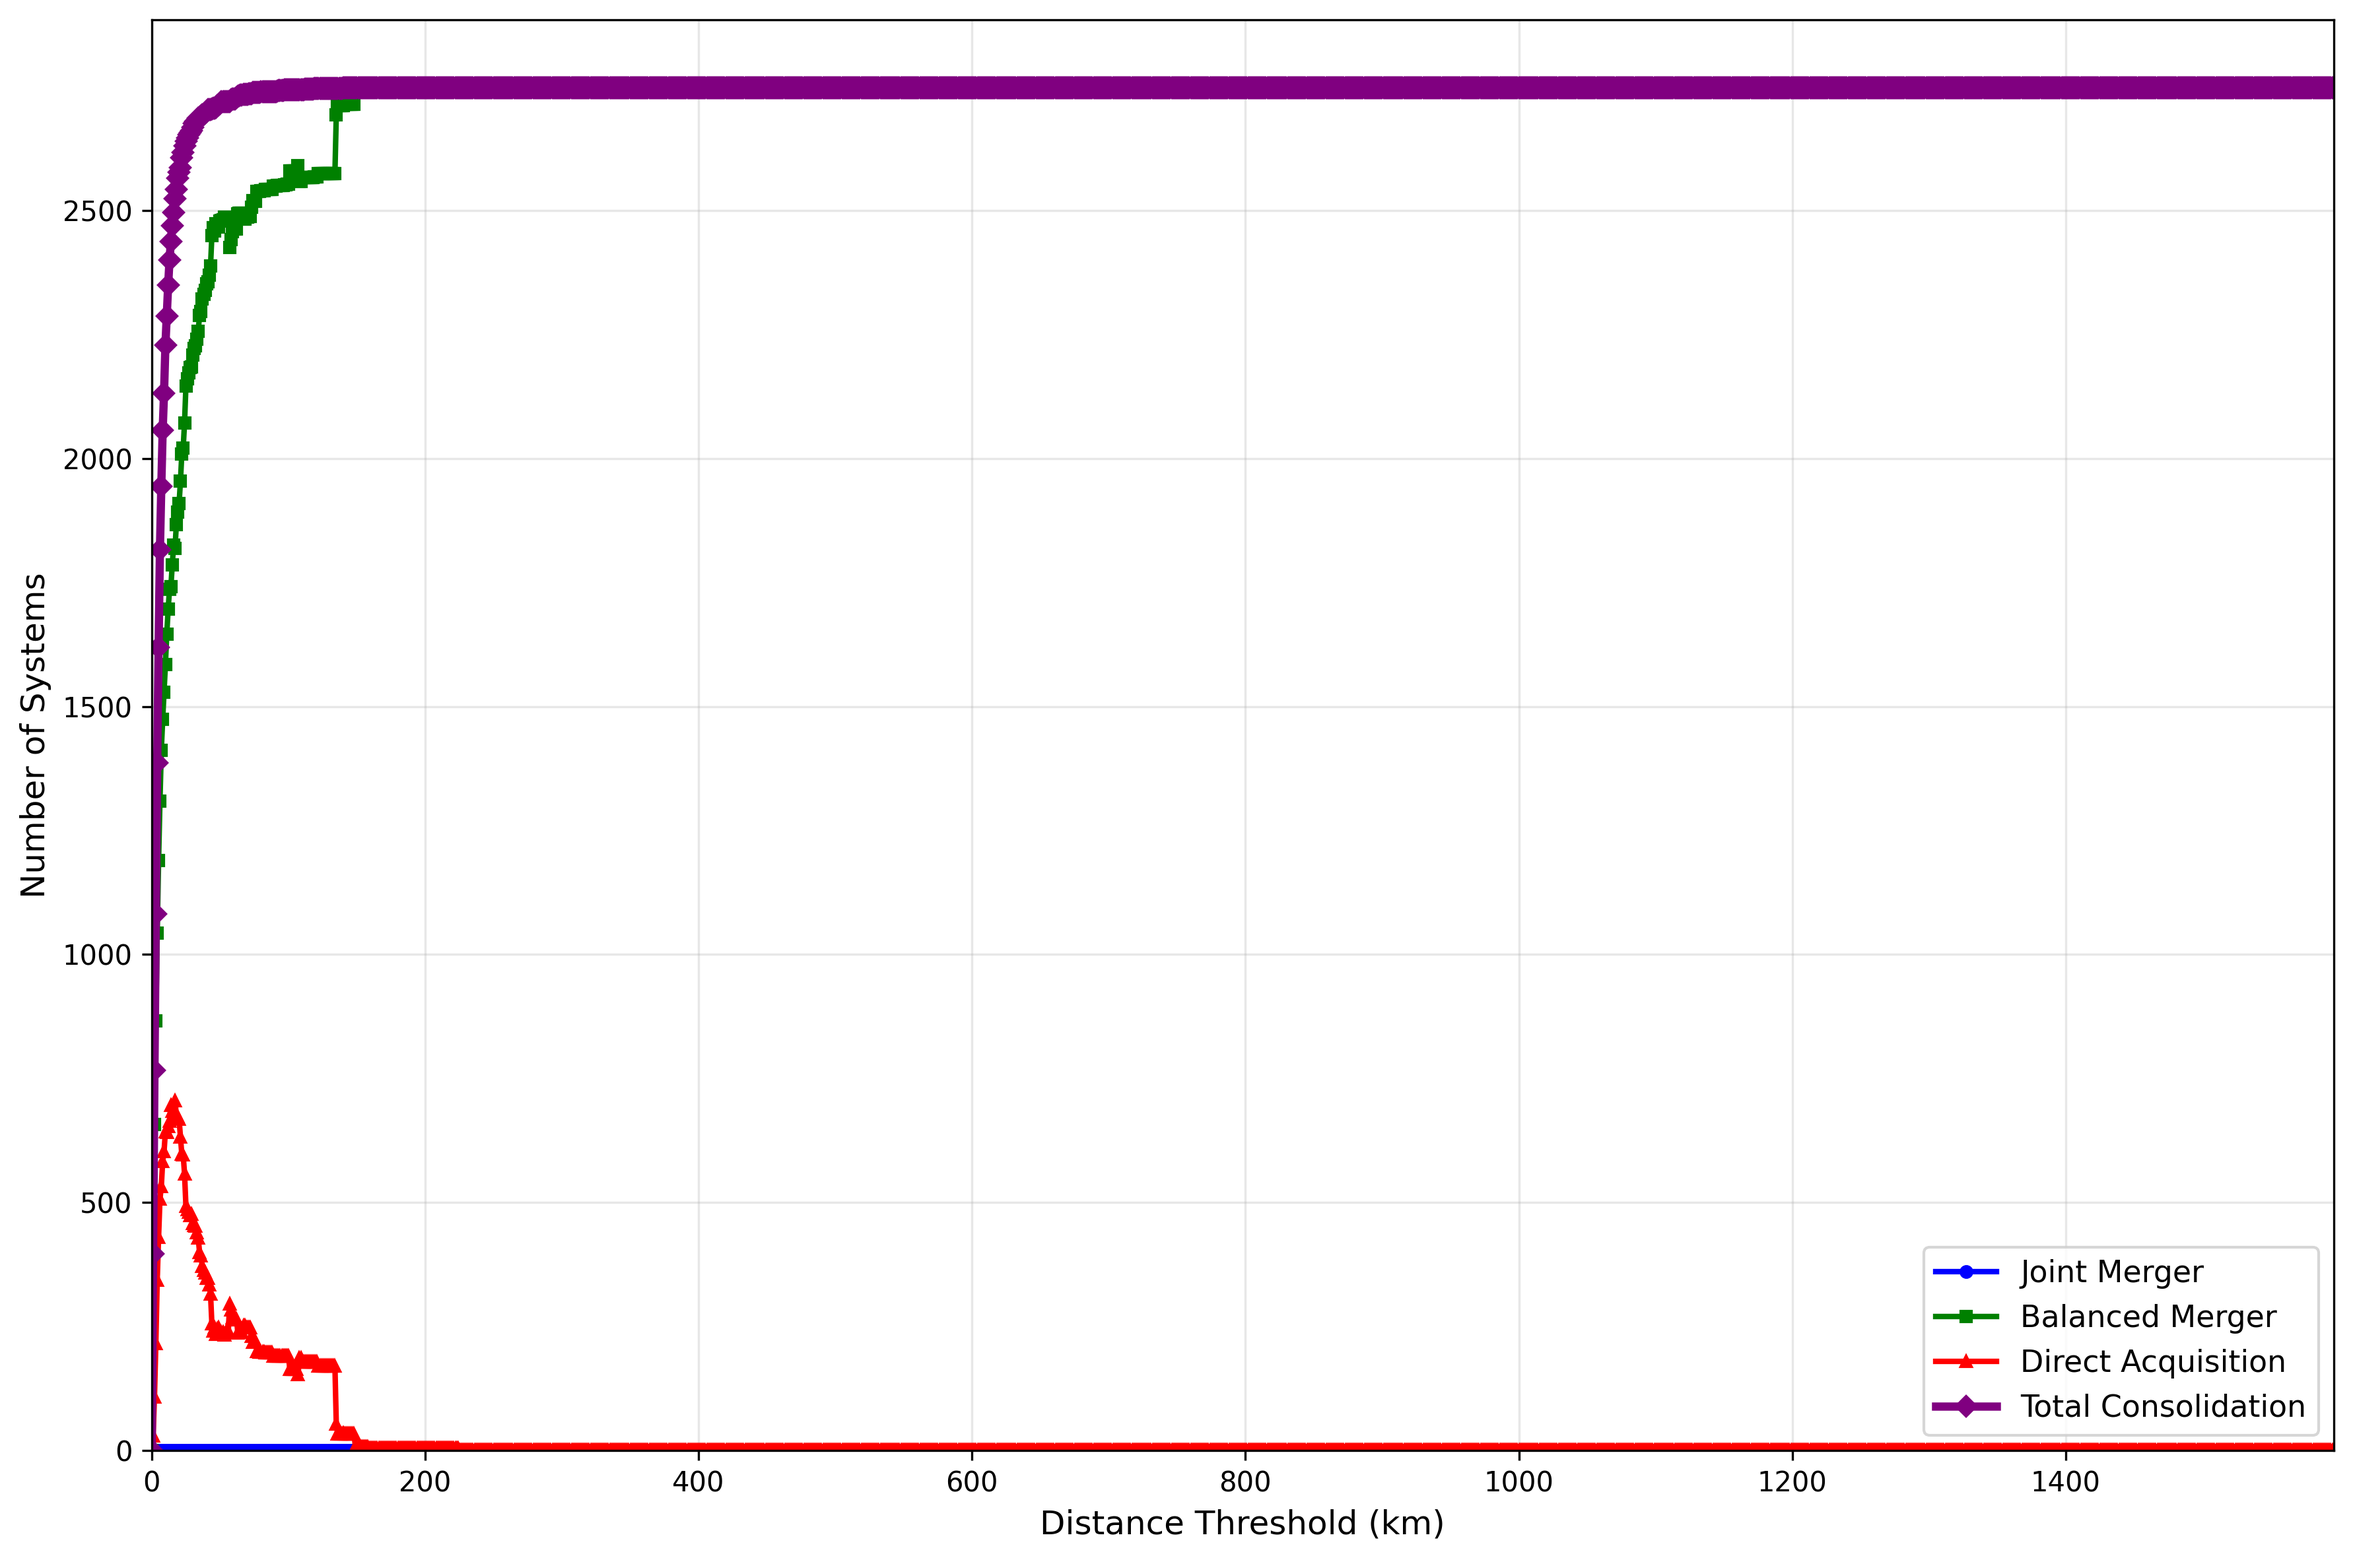
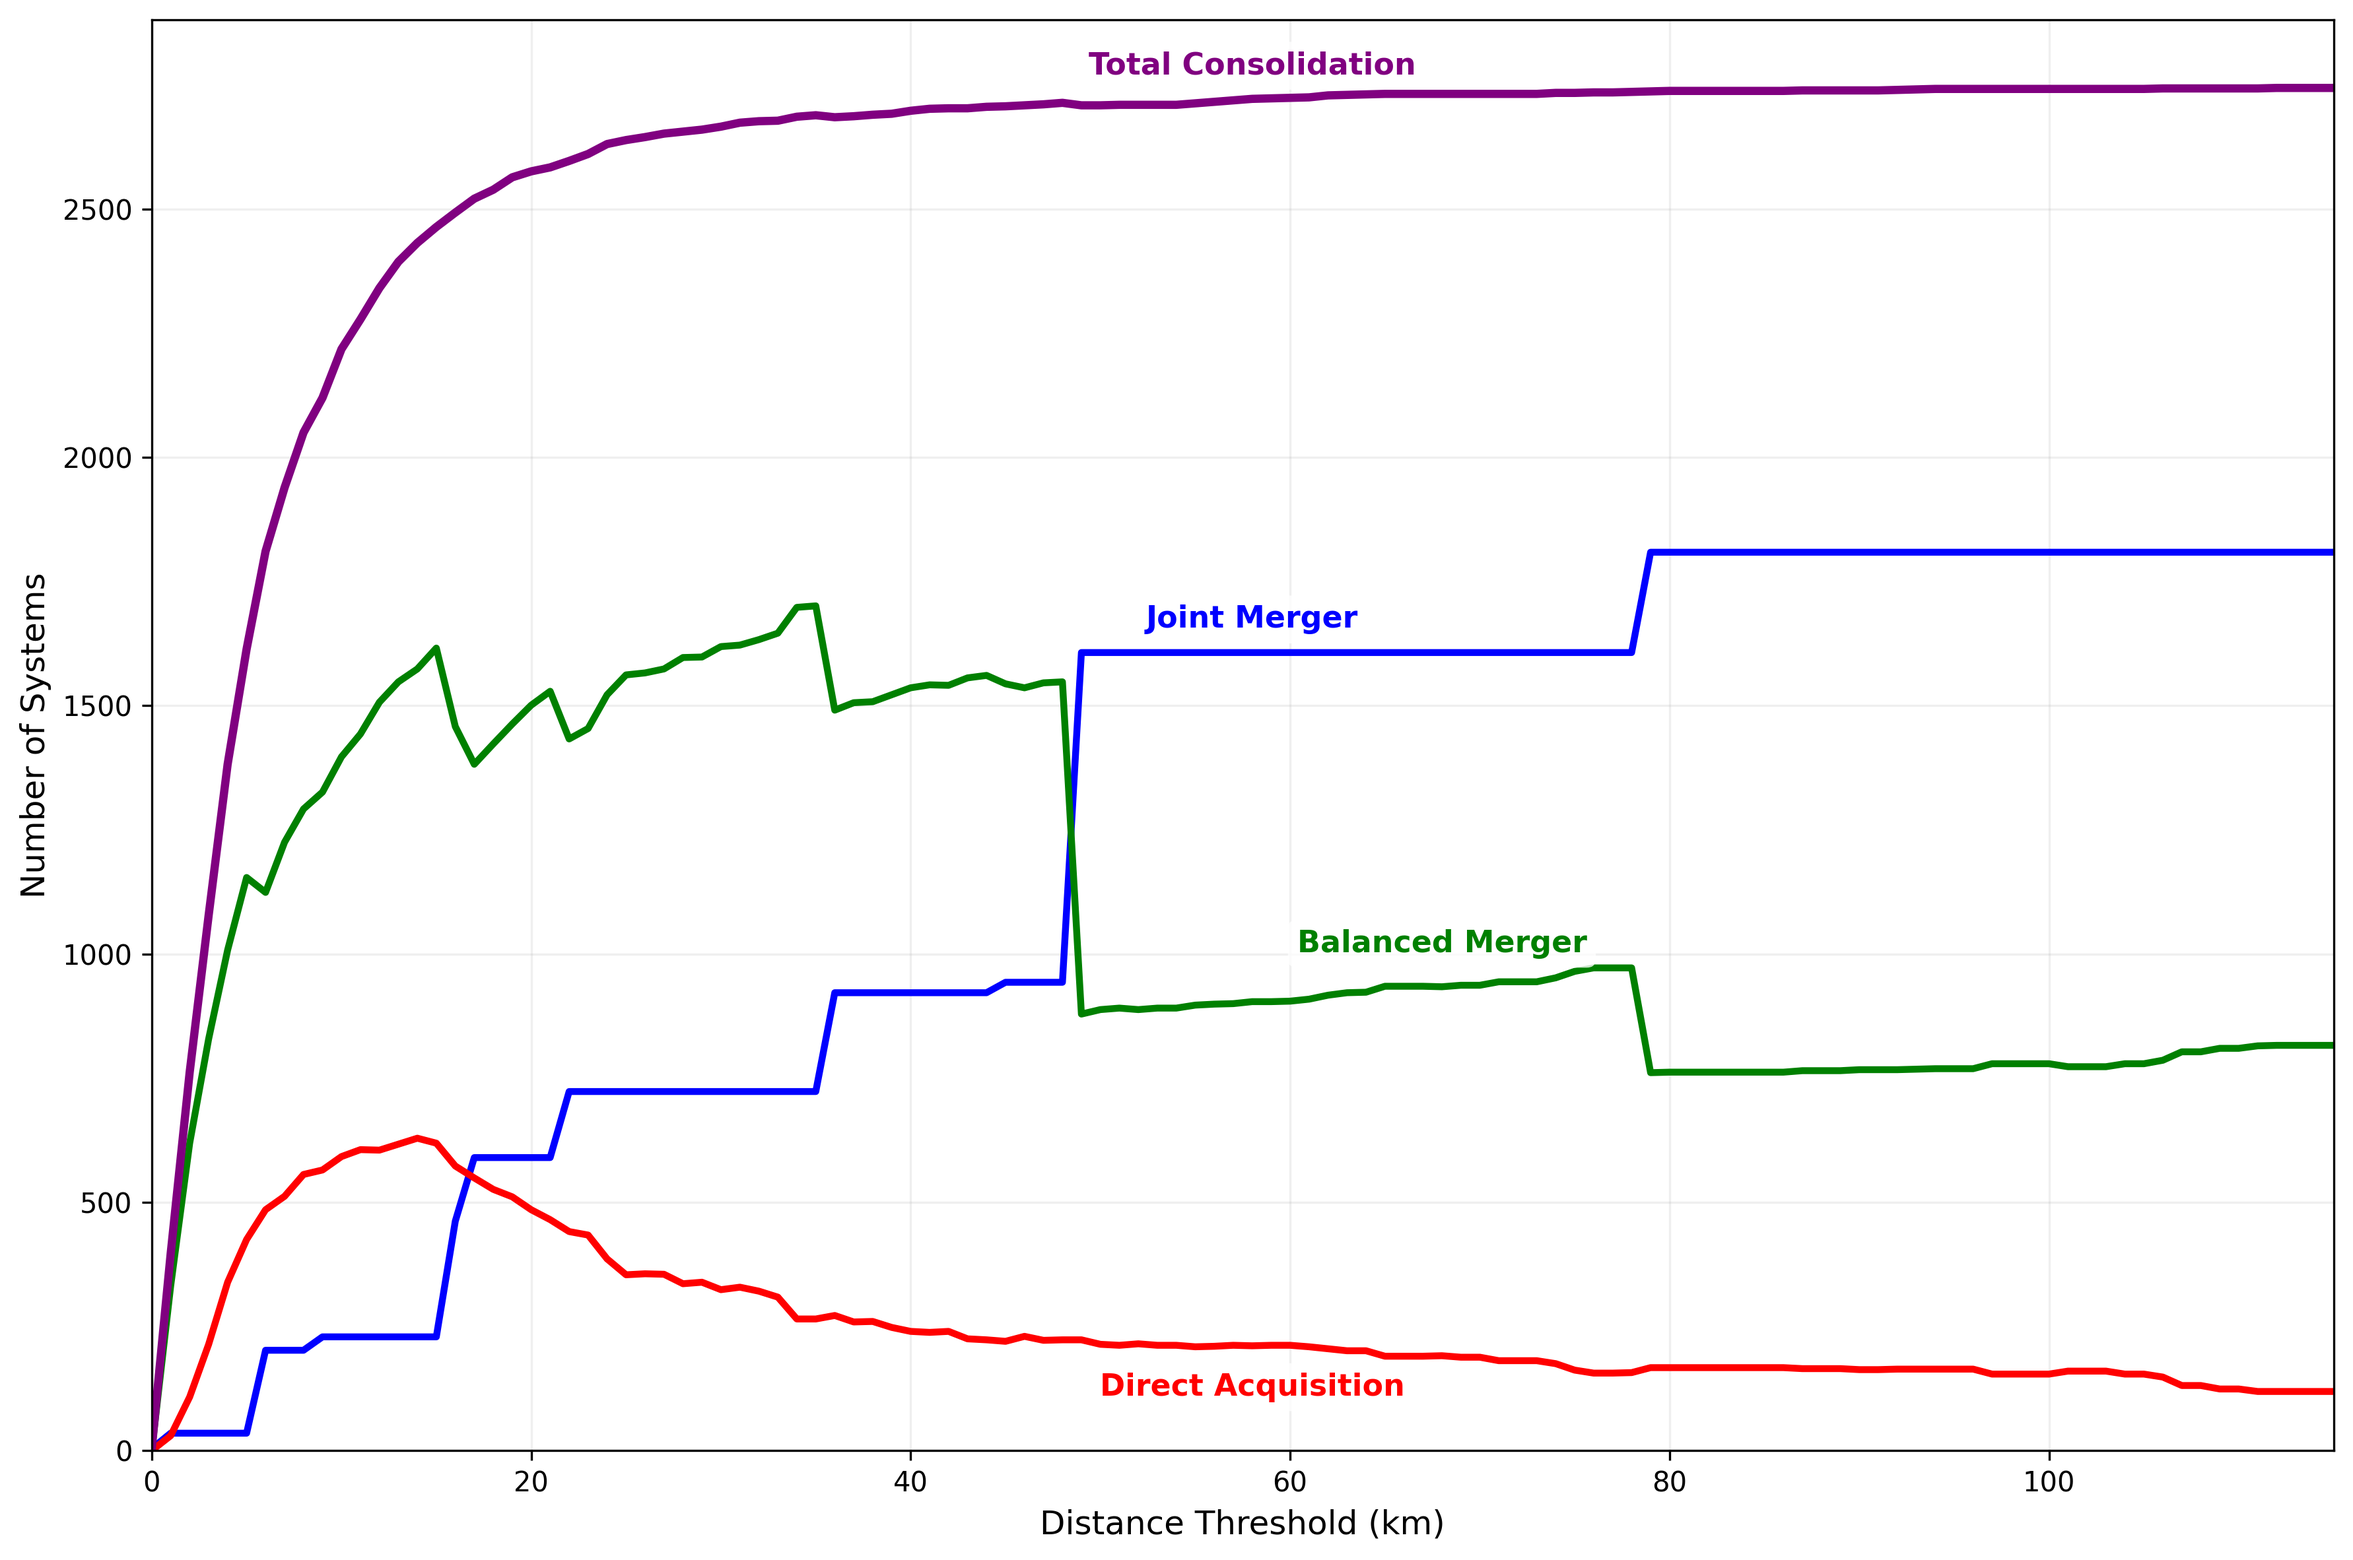
Create the consolidation distance analysis plot

diff --git a/consolidation_distance_analysis.py b/consolidation_distance_analysis.py
@@ -88,12 +88,134 @@ def water_systems_nearest_neighbor_analysis():
     ax1.tick_params(axis='y', labelcolor=color_km)
     ax1.grid(True, alpha=0.3)
     
+    # Set axis limits to start from 0
+    ax1.set_xlim(0, len(sorted_distances_km)+50)
+    ax1.set_ylim(0, sorted_distances_km.max() * 1.05)
+    
     # Create second y-axis for miles
     ax2 = ax1.twinx()
     color_miles = 'tab:red'
     ax2.set_ylabel('Distance (miles)', color=color_miles, fontsize=12)
     line2 = ax2.plot(system_numbers, sorted_distances_miles, color='black', linewidth=1.5)
     ax2.tick_params(axis='y', labelcolor=color_miles)
+    
+    # Set right y-axis to also start from 0
+    ax2.set_ylim(0, sorted_distances_miles.max() * 1.05)
+    
+    plt.tight_layout()
+    plt.savefig('Output Figure/Water_Systems_Nearest_Neighbor_Analysis.png', dpi=300, bbox_inches='tight')
+    plt.show()
+    
+    print(f"\nPlot saved to: Output Figure/Water_Systems_Nearest_Neighbor_Analysis.png")
+    
+    # Create consolidation sensitivity plot
+    create_consolidation_sensitivity_plot()
+    
+    return nearest_distances_km, nearest_distances_miles
+
+# Script to visualize water system distance and consolidation analysis
+# Creates two plots: nearest neighbor distances and consolidation sensitivity across distance thresholds
+
+import pandas as pd
+import numpy as np
+import matplotlib.pyplot as plt
+
+def water_systems_nearest_neighbor_analysis():
+    """
+    Calculate and visualize nearest neighbor distances for California water systems
+    """
+    
+    # Load data
+    print("Loading data...")
+    try:
+        # Load CWS data
+        cws_ca = pd.read_csv('Output Data/CWS_CA.csv')
+        print(f"Loaded {len(cws_ca)} water systems")
+        
+        # Load distance matrix
+        data = np.load('Output Data/PWSID_Distance_Matrix_km.npz')
+        distance_matrix_km = data['distance_matrix']
+        pwsids = data['pwsids']
+        print(f"Loaded distance matrix: {distance_matrix_km.shape[0]} × {distance_matrix_km.shape[1]} systems")
+        
+    except FileNotFoundError as e:
+        print(f"Error loading data: {e}")
+        return
+    
+    # Calculate nearest neighbor distances
+    print("Calculating nearest neighbor distances...")
+    
+    # Create a copy of distance matrix and set diagonal to infinity to exclude self-distances
+    dist_matrix = distance_matrix_km.copy()
+    np.fill_diagonal(dist_matrix, np.inf)
+    
+    # Find minimum distance for each system (nearest neighbor)
+    nearest_distances_km = np.min(dist_matrix, axis=1)
+    nearest_distances_miles = nearest_distances_km * 0.621371  # Convert km to miles
+    
+    # Sort distances for plotting
+    sorted_distances_km = np.sort(nearest_distances_km)
+    sorted_distances_miles = np.sort(nearest_distances_miles)
+    
+    # Calculate statistics
+    stats_km = {
+        'min': nearest_distances_km.min(),
+        'max': nearest_distances_km.max(),
+        'median': np.median(nearest_distances_km),
+        'mean': nearest_distances_km.mean()
+    }
+    
+    stats_miles = {
+        'min': nearest_distances_miles.min(),
+        'max': nearest_distances_miles.max(),
+        'median': np.median(nearest_distances_miles),
+        'mean': nearest_distances_miles.mean()
+    }
+    
+    # Print statistics
+    print("\n" + "="*60)
+    print("NEAREST NEIGHBOR DISTANCE STATISTICS")
+    print("="*60)
+    print(f"Total systems analyzed: {len(nearest_distances_km)}")
+    print(f"\nDistance Statistics (km):")
+    print(f"  Minimum:  {stats_km['min']:.2f} km")
+    print(f"  Maximum:  {stats_km['max']:.2f} km")
+    print(f"  Median:   {stats_km['median']:.2f} km")
+    print(f"  Mean:     {stats_km['mean']:.2f} km")
+    
+    print(f"\nDistance Statistics (miles):")
+    print(f"  Minimum:  {stats_miles['min']:.2f} miles")
+    print(f"  Maximum:  {stats_miles['max']:.2f} miles")
+    print(f"  Median:   {stats_miles['median']:.2f} miles")
+    print(f"  Mean:     {stats_miles['mean']:.2f} miles")
+    
+    # Create the plot
+    fig, ax1 = plt.subplots(figsize=(12, 8))
+    
+    # Create system numbers for x-axis
+    system_numbers = np.arange(1, len(sorted_distances_km) + 1)
+    
+    # Plot km distances on left y-axis
+    color_km = 'tab:blue'
+    ax1.set_xlabel('System Number (Sorted by Distance)', fontsize=12)
+    ax1.set_ylabel('Distance (km)', color=color_km, fontsize=12)
+    line1 = ax1.plot(system_numbers, sorted_distances_km, color='black', linewidth=1.5)
+    ax1.tick_params(axis='y', labelcolor=color_km)
+    ax1.grid(True, alpha=0.3)
+    
+    # Set axis limits to start from 0
+    ax1.set_xlim(0, len(sorted_distances_km))
+    ax1.set_ylim(0, sorted_distances_km.max() * 1.05)
+    
+    # Create second y-axis for miles
+    ax2 = ax1.twinx()
+    color_miles = 'tab:red'
+    ax2.set_ylabel('Distance (miles)', color=color_miles, fontsize=12)
+    line2 = ax2.plot(system_numbers, sorted_distances_miles, color='black', linewidth=1.5)
+    ax2.tick_params(axis='y', labelcolor=color_miles)
+    
+    # Set right y-axis to also start from 0
+    ax2.set_ylim(0, sorted_distances_miles.max() * 1.05)
     
     plt.tight_layout()
     plt.savefig('Output Figure/Water_Systems_Nearest_Neighbor_Analysis.png', dpi=300, bbox_inches='tight')
@@ -115,21 +237,55 @@ def create_consolidation_sensitivity_plot():
         # Create the plot
         fig, ax = plt.subplots(figsize=(12, 8))
         
+        # Use fresh, soft colors
+        colors = {
+            'joint': 'blue',
+            'balanced': 'green', 
+            'direct': 'red',
+            'total': 'purple'
+        }
+        
         # Plot each consolidation type
-        ax.plot(sensitivity_df['Distance_km'], sensitivity_df['Joint_Merger'], 'o-', 
-                label='Joint Merger', color='blue', linewidth=2, markersize=4)
-        ax.plot(sensitivity_df['Distance_km'], sensitivity_df['Balanced_Merger'], 's-', 
-                label='Balanced Merger', color='green', linewidth=2, markersize=4)
-        ax.plot(sensitivity_df['Distance_km'], sensitivity_df['Direct_Acquisition'], '^-', 
-                label='Direct Acquisition', color='red', linewidth=2, markersize=4)
-        ax.plot(sensitivity_df['Distance_km'], sensitivity_df['Total_Consolidation'], 'D-', 
-                label='Total Consolidation', color='purple', linewidth=3, markersize=5)
+        ax.plot(sensitivity_df['Distance_km'], sensitivity_df['Joint_Merger'], '-', 
+                color=colors['joint'], linewidth=2.5)
+        ax.plot(sensitivity_df['Distance_km'], sensitivity_df['Balanced_Merger'], '-', 
+                color=colors['balanced'], linewidth=2.5)
+        ax.plot(sensitivity_df['Distance_km'], sensitivity_df['Direct_Acquisition'], '-', 
+                color=colors['direct'], linewidth=2.5)
+        ax.plot(sensitivity_df['Distance_km'], sensitivity_df['Total_Consolidation'], '-', 
+                color=colors['total'], linewidth=3)
+        
+        # Add text labels directly on the lines
+        mid_x = sensitivity_df['Distance_km'].iloc[len(sensitivity_df)//2]
+        
+        # Find y-values at the middle x position for labeling
+        mid_idx = len(sensitivity_df) // 2
+        joint_y = sensitivity_df['Joint_Merger'].iloc[mid_idx]
+        balanced_y = sensitivity_df['Balanced_Merger'].iloc[mid_idx]
+        direct_y = sensitivity_df['Direct_Acquisition'].iloc[mid_idx]
+        total_y = sensitivity_df['Total_Consolidation'].iloc[mid_idx]
+        
+        # Add text labels
+        ax.text(mid_x, joint_y + 50, 'Joint Merger', fontsize=11, ha='center', 
+                color=colors['joint'], fontweight='bold', 
+                bbox=dict(boxstyle='round,pad=0.3', facecolor='white', alpha=0.8, edgecolor='none'))
+        
+        ax.text(mid_x + 10, balanced_y + 100, 'Balanced Merger', fontsize=11, ha='center', 
+                color=colors['balanced'], fontweight='bold',
+                bbox=dict(boxstyle='round,pad=0.3', facecolor='white', alpha=0.8, edgecolor='none'))
+        
+        ax.text(mid_x, direct_y - 100, 'Direct Acquisition', fontsize=11, ha='center', 
+                color=colors['direct'], fontweight='bold',
+                bbox=dict(boxstyle='round,pad=0.3', facecolor='white', alpha=0.8, edgecolor='none'))
+        
+        ax.text(mid_x, total_y + 50, 'Total Consolidation', fontsize=11, ha='center', 
+                color=colors['total'], fontweight='bold',
+                bbox=dict(boxstyle='round,pad=0.3', facecolor='white', alpha=0.8, edgecolor='none'))
         
         # Customize plot
         ax.set_xlabel('Distance Threshold (km)', fontsize=12)
         ax.set_ylabel('Number of Systems', fontsize=12)
-        ax.legend(fontsize=11)
-        ax.grid(True, alpha=0.3)
+        ax.grid(True, alpha=0.2)  # Lighter grid for fresh look
         
         # Set reasonable axis limits
         ax.set_xlim(0, sensitivity_df['Distance_km'].max())
